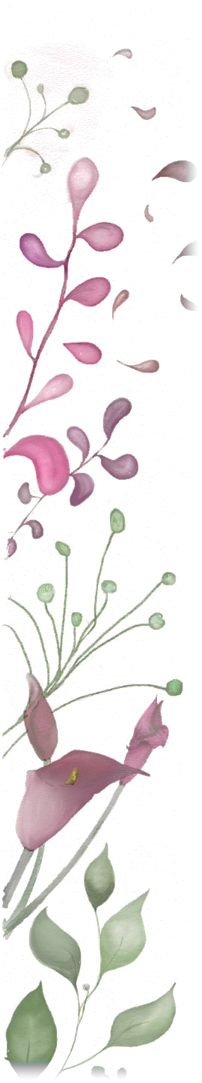
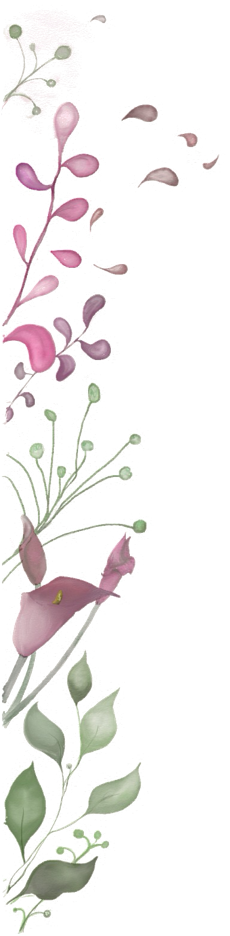
Hero flowers: extract whole flower groups from the invitation, no cropping or edge fading

diff --git a/index.html b/index.html
@@ -144,10 +144,10 @@
     text-align: center;
     position: relative;
   " data-screen-label="Hero">
-    <img src="assets/flores-right.png" alt="" style="position: absolute; top: 0; right: 0; width: 100px; height: auto; pointer-events: none; user-select: none;">
-    <img src="assets/flores-left.png" alt="" style="position: absolute; top: 0; left: 0; width: 80px; height: auto; pointer-events: none; user-select: none;">
-    <img src="assets/flores-bottomright.png" alt="" style="position: absolute; bottom: 0; right: 0; width: 82px; height: auto; pointer-events: none; user-select: none;">
-    <img src="assets/flores-bottomleft.png" alt="" style="position: absolute; bottom: 0; left: 0; width: 150px; height: auto; pointer-events: none; user-select: none;">
+    <img src="assets/flores-right.png" alt="" style="position: absolute; top: 0; right: 0; width: 101px; height: auto; pointer-events: none; user-select: none;">
+    <img src="assets/flores-left.png" alt="" style="position: absolute; top: 11px; left: 0; width: 109px; height: auto; pointer-events: none; user-select: none;">
+    <img src="assets/flores-bottomright.png" alt="" style="position: absolute; bottom: 0; right: 0; width: 88px; height: auto; pointer-events: none; user-select: none;">
+    <img src="assets/flores-bottomleft.png" alt="" style="position: absolute; bottom: 0; left: 34px; width: 106px; height: auto; pointer-events: none; user-select: none;">
 
     <sc-if value="{{ showHero }}" hint-placeholder-val="{{ false }}">
       <div style="position: relative; animation: fadeInStay 1.2s ease both;">
